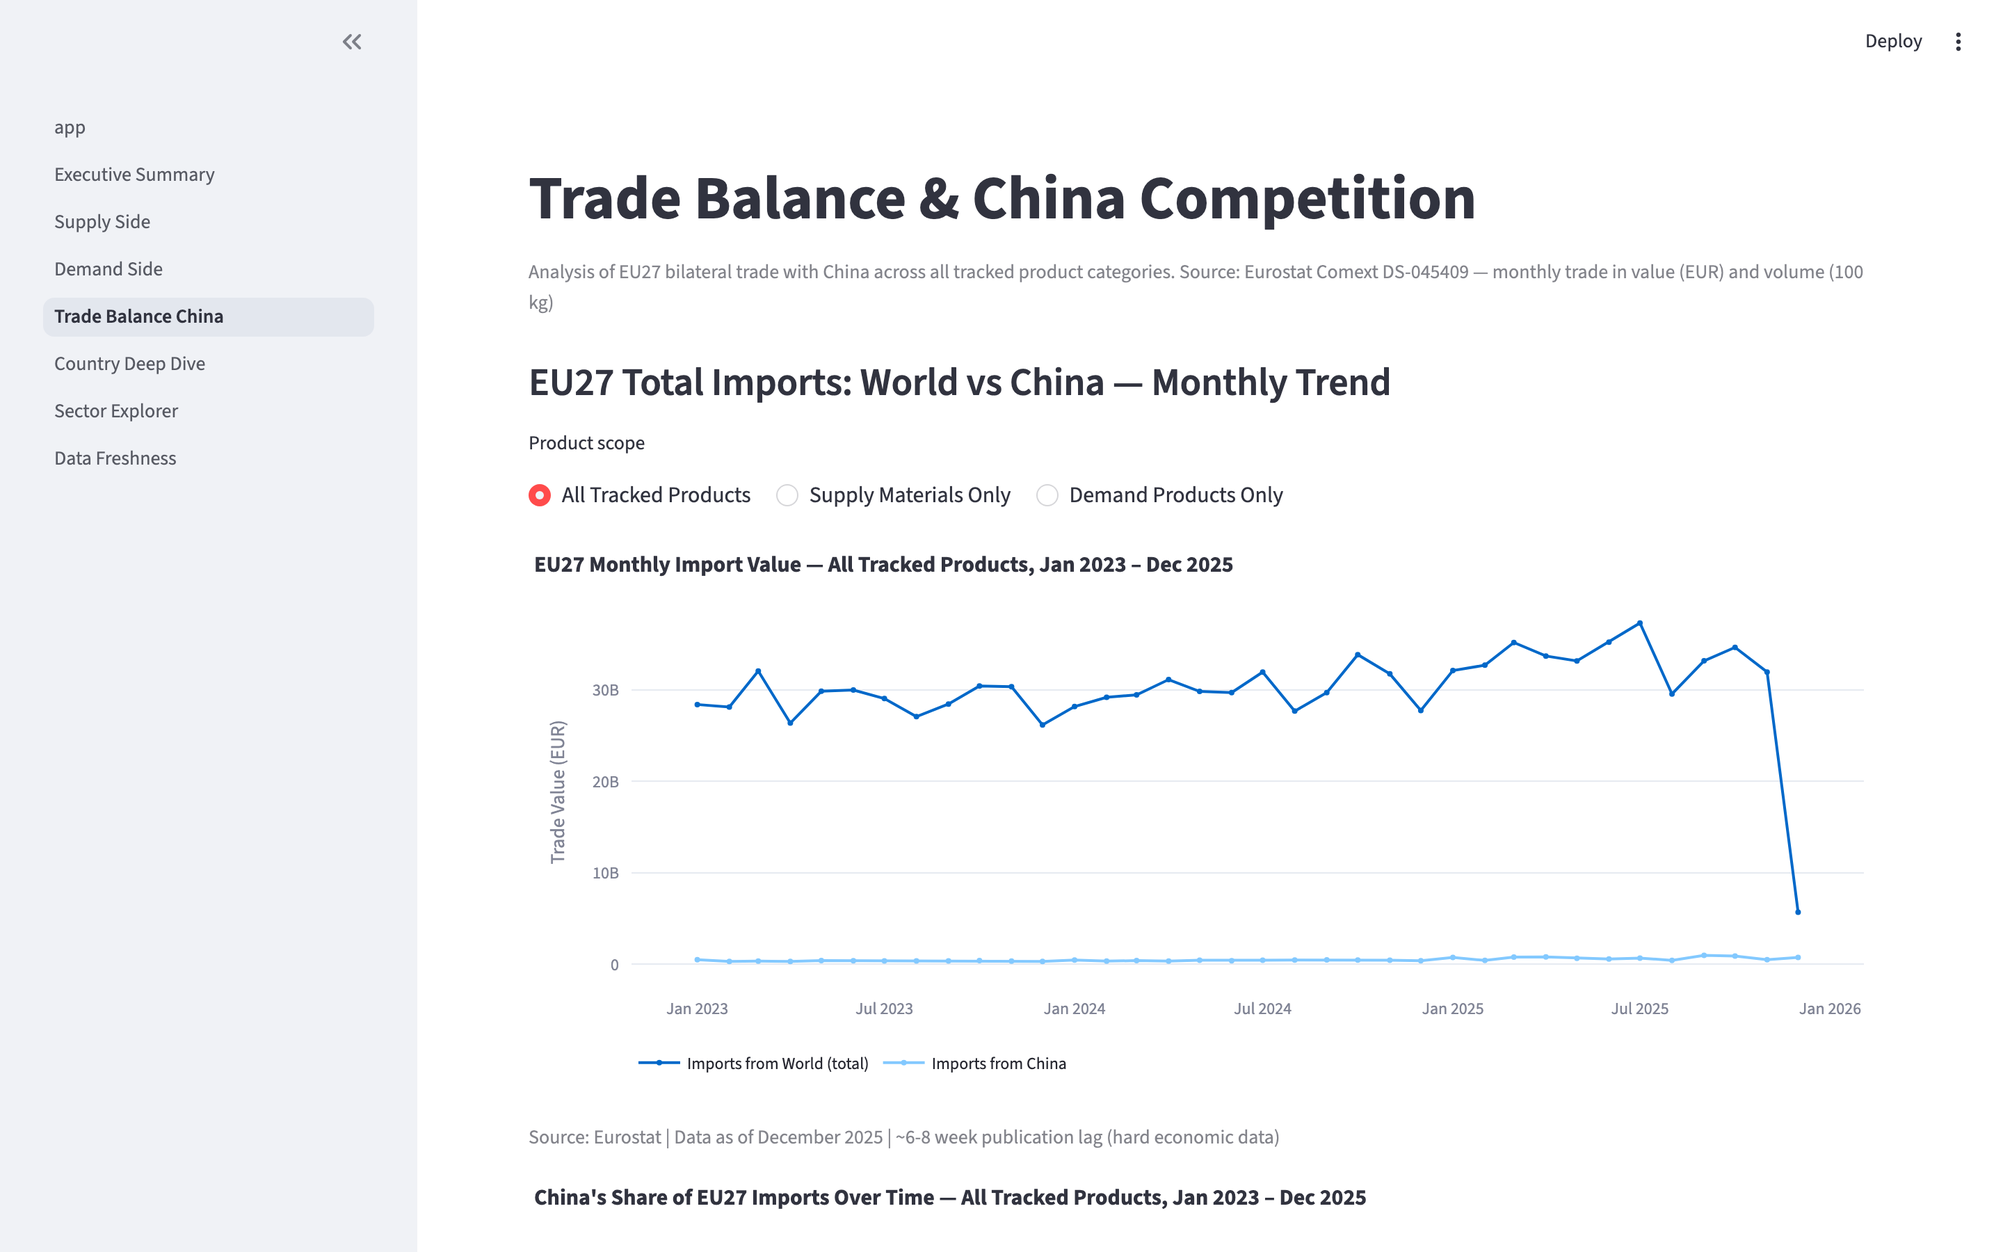
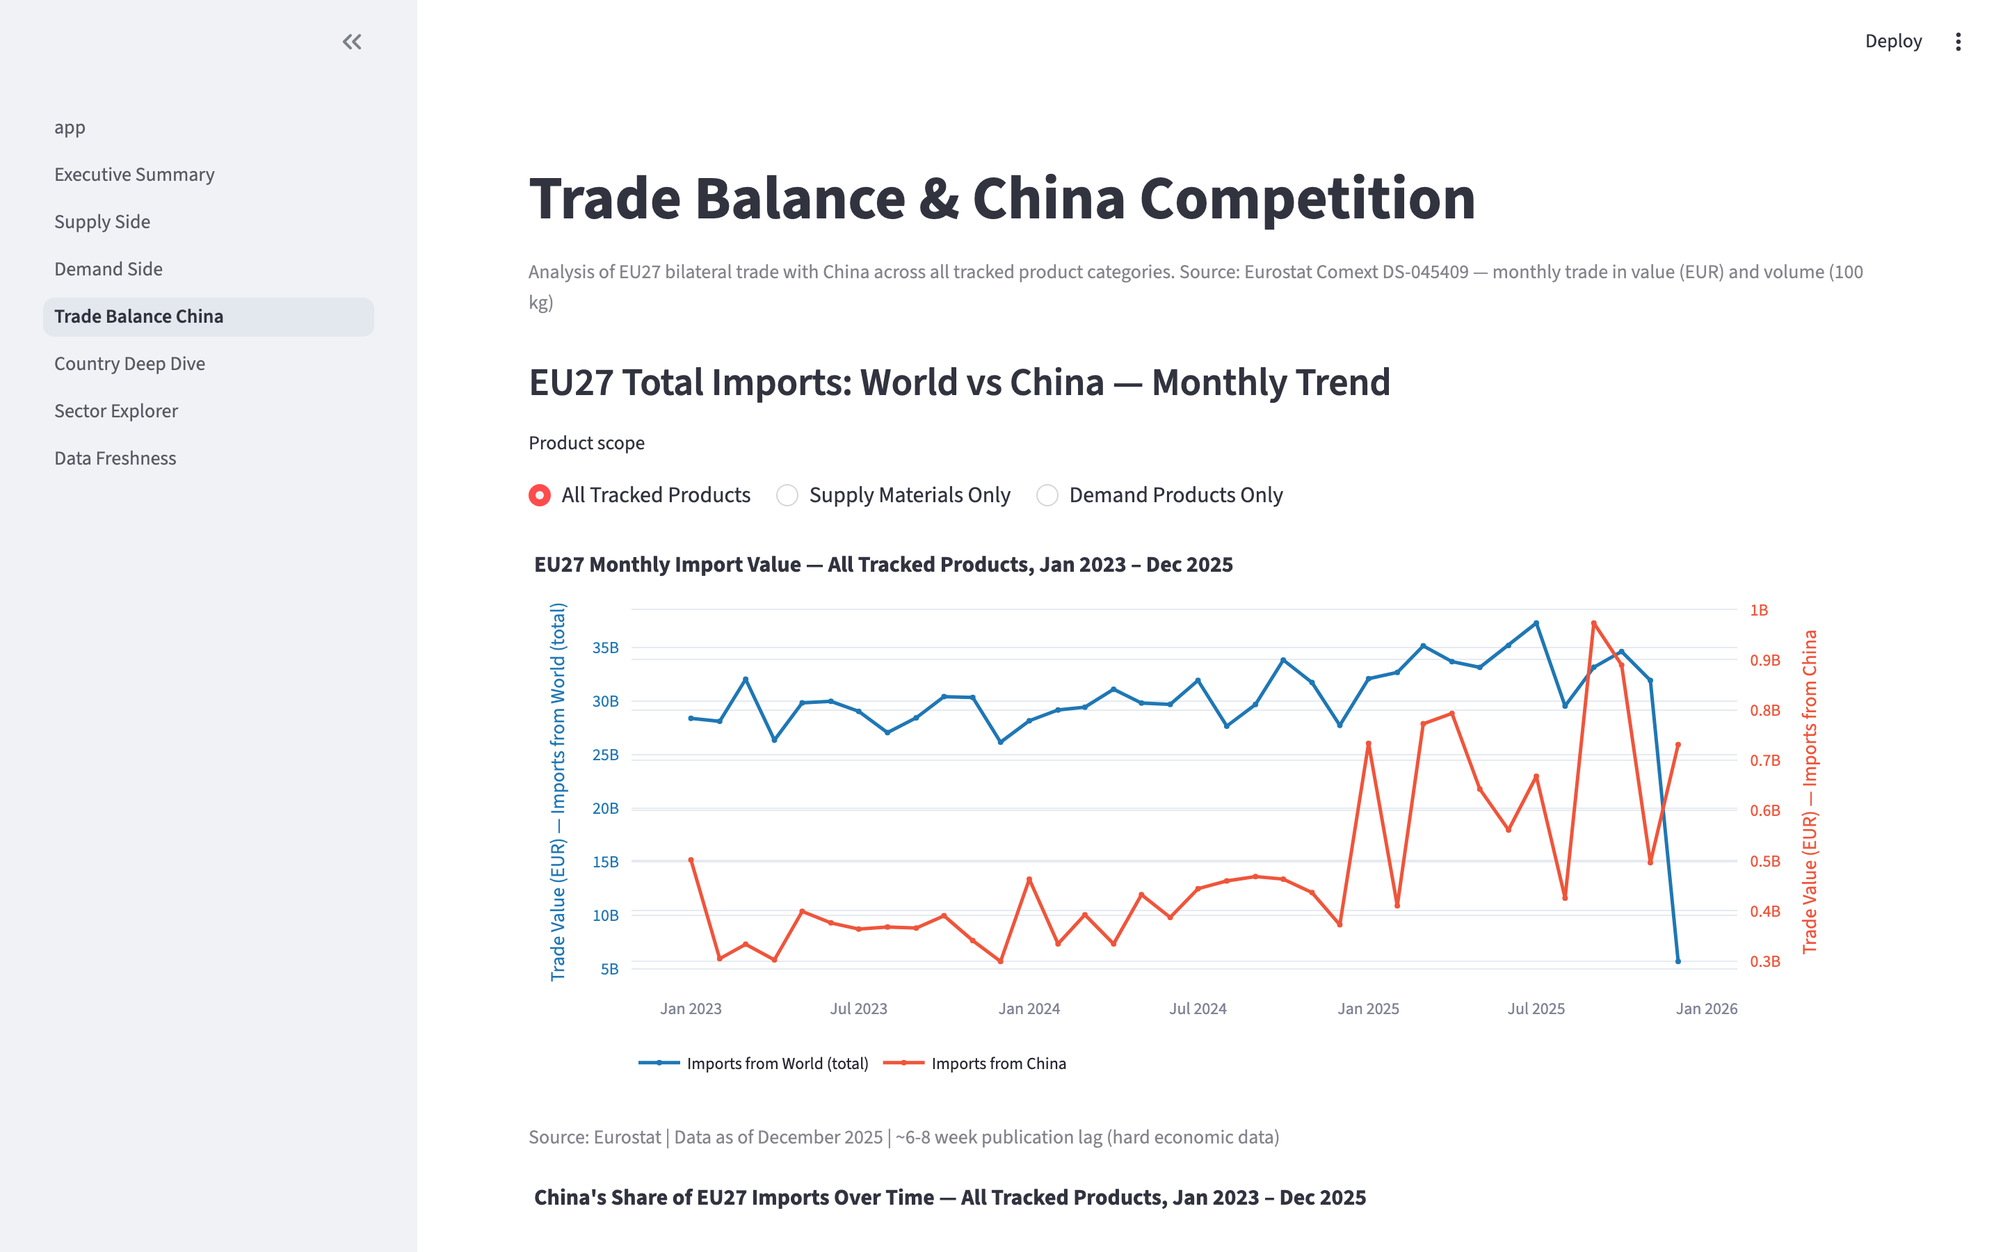
Add dual y-axes for World vs China charts, requirements.txt, QUICKSTART.md
World and China trade lines now use separate y-axes (left/right) so both
are readable regardless of scale difference. Updated charts.py with
dual_axis_chart(), applied to pages 1, 4, and 5. Added full requirements.txt
and concise QUICKSTART.md with run commands.

diff --git a/dashboard/pages/5_Country_Deep_Dive.py b/dashboard/pages/5_Country_Deep_Dive.py
@@ -4,6 +4,7 @@ Country Deep Dive — All indicators for a selected country.
 
 import streamlit as st
 import pandas as pd
+import plotly.graph_objects as go
 
 import sys, os
 sys.path.insert(0, os.path.dirname(os.path.dirname(__file__)))
@@ -14,7 +15,7 @@ from constants import (
     STS_DATASET_DESCRIPTIONS, NACE_DESCRIPTIONS, SUPPLY_NACE, DEMAND_NACE,
     FLOW_LABELS, INDICATOR_LABELS, freshness_footnote,
 )
-from charts import line_chart, trade_balance_chart, bilateral_flow_chart, freshness_badge
+from charts import line_chart, dual_axis_chart, trade_balance_chart, bilateral_flow_chart, freshness_badge
 
 st.title("Country Deep Dive")
 st.caption("Select an EU member state to view all available trade and industrial indicators")
@@ -64,29 +65,74 @@ with tab_supply_trade:
             world_exp = country_data[(country_data["partner"] == "WORLD") & (country_data["flow"] == "2")]
             china_imp = country_data[(country_data["partner"] == "CN") & (country_data["flow"] == "1")]
 
-            plot_data = []
-            if not world_imp.empty:
-                plot_data.append(world_imp[["date", "value"]].assign(country="Imports from World"))
-            if not world_exp.empty:
-                plot_data.append(world_exp[["date", "value"]].assign(country="Exports to World"))
-            if not china_imp.empty:
-                plot_data.append(china_imp[["date", "value"]].assign(country="Imports from China"))
+            # World imports & exports on left axis, China on right axis
+            has_world = not world_imp.empty or not world_exp.empty
+            has_china = not china_imp.empty
 
-            if plot_data:
-                combined = pd.concat(plot_data)
-                date_range = f"{combined['date'].min().strftime('%b %Y')} – {combined['date'].max().strftime('%b %Y')}"
-                st.plotly_chart(
-                    line_chart(combined, combined["country"].unique().tolist(),
-                               f"{desc} (CN {cn_code}) — {country_name}, {date_range}",
-                               y_label=indicator_name),
-                    use_container_width=True,
-                )
+            if has_world or has_china:
+                all_dates = pd.concat([
+                    d[["date"]] for d in [world_imp, world_exp, china_imp] if not d.empty
+                ])
+                date_range = f"{all_dates['date'].min().strftime('%b %Y')} \u2013 {all_dates['date'].max().strftime('%b %Y')}"
+
+                if has_china and has_world:
+                    from plotly.subplots import make_subplots
+                    fig = make_subplots(specs=[[{"secondary_y": True}]])
+                    if not world_imp.empty:
+                        fig.add_trace(go.Scatter(
+                            x=world_imp["date"], y=world_imp["value"],
+                            mode="lines+markers", name="Imports from World",
+                            line=dict(width=2.5, color="#1f77b4"), marker=dict(size=4),
+                            hovertemplate="%{x|%b %Y}: %{y:,.0f}<extra>World Imports</extra>",
+                        ), secondary_y=False)
+                    if not world_exp.empty:
+                        fig.add_trace(go.Scatter(
+                            x=world_exp["date"], y=world_exp["value"],
+                            mode="lines+markers", name="Exports to World",
+                            line=dict(width=2.5, color="#00cc96"), marker=dict(size=4),
+                            hovertemplate="%{x|%b %Y}: %{y:,.0f}<extra>World Exports</extra>",
+                        ), secondary_y=False)
+                    fig.add_trace(go.Scatter(
+                        x=china_imp["date"], y=china_imp["value"],
+                        mode="lines+markers", name="Imports from China",
+                        line=dict(width=2.5, color="#ef553b"), marker=dict(size=4),
+                        hovertemplate="%{x|%b %Y}: %{y:,.0f}<extra>China Imports</extra>",
+                    ), secondary_y=True)
+                    fig.update_layout(
+                        title=f"{desc} (CN {cn_code}) \u2014 {country_name}, {date_range}",
+                        xaxis_title="", hovermode="x unified",
+                        legend=dict(orientation="h", y=-0.15),
+                        margin=dict(l=60, r=60, t=40, b=40), height=400,
+                    )
+                    fig.update_yaxes(title_text=f"{indicator_name} \u2014 World",
+                                      title_font=dict(color="#1f77b4"),
+                                      tickfont=dict(color="#1f77b4"), secondary_y=False)
+                    fig.update_yaxes(title_text=f"{indicator_name} \u2014 China",
+                                      title_font=dict(color="#ef553b"),
+                                      tickfont=dict(color="#ef553b"), secondary_y=True)
+                    st.plotly_chart(fig, use_container_width=True)
+                else:
+                    plot_data = []
+                    if not world_imp.empty:
+                        plot_data.append(world_imp[["date", "value"]].assign(country="Imports from World"))
+                    if not world_exp.empty:
+                        plot_data.append(world_exp[["date", "value"]].assign(country="Exports to World"))
+                    if not china_imp.empty:
+                        plot_data.append(china_imp[["date", "value"]].assign(country="Imports from China"))
+                    combined = pd.concat(plot_data)
+                    st.plotly_chart(
+                        line_chart(combined, combined["country"].unique().tolist(),
+                                   f"{desc} (CN {cn_code}) \u2014 {country_name}, {date_range}",
+                                   y_label=indicator_name),
+                        use_container_width=True,
+                    )
+
                 fr = data["freshness"].get(f"comext_{cn_code}", {})
                 st.caption(freshness_footnote(fr.get("tier", 2), fr.get("latest_date")))
 
 # ---- DEMAND TRADE ----
 with tab_demand_trade:
-    st.subheader(f"End-Market Product Trade — {country_name}")
+    st.subheader(f"End-Market Product Trade \u2014 {country_name}")
     st.caption("International trade in finished goods (food, beverages, HPC, pharma). Source: Eurostat Comext DS-045409")
 
     indicator = st.radio("Measure", ["VALUE_IN_EUROS", "QUANTITY_IN_100KG"],
@@ -107,23 +153,67 @@ with tab_demand_trade:
             world_exp = country_data[(country_data["partner"] == "WORLD") & (country_data["flow"] == "2")]
             china_imp = country_data[(country_data["partner"] == "CN") & (country_data["flow"] == "1")]
 
-            plot_data = []
-            if not world_imp.empty:
-                plot_data.append(world_imp[["date", "value"]].assign(country="Imports from World"))
-            if not world_exp.empty:
-                plot_data.append(world_exp[["date", "value"]].assign(country="Exports to World"))
-            if not china_imp.empty:
-                plot_data.append(china_imp[["date", "value"]].assign(country="Imports from China"))
+            has_world = not world_imp.empty or not world_exp.empty
+            has_china = not china_imp.empty
 
-            if plot_data:
-                combined = pd.concat(plot_data)
-                date_range = f"{combined['date'].min().strftime('%b %Y')} – {combined['date'].max().strftime('%b %Y')}"
-                st.plotly_chart(
-                    line_chart(combined, combined["country"].unique().tolist(),
-                               f"{desc} (CN {cn_code}) — {country_name}, {date_range}",
-                               y_label=indicator_name),
-                    use_container_width=True,
-                )
+            if has_world or has_china:
+                all_dates = pd.concat([
+                    d[["date"]] for d in [world_imp, world_exp, china_imp] if not d.empty
+                ])
+                date_range = f"{all_dates['date'].min().strftime('%b %Y')} \u2013 {all_dates['date'].max().strftime('%b %Y')}"
+
+                if has_china and has_world:
+                    from plotly.subplots import make_subplots
+                    fig = make_subplots(specs=[[{"secondary_y": True}]])
+                    if not world_imp.empty:
+                        fig.add_trace(go.Scatter(
+                            x=world_imp["date"], y=world_imp["value"],
+                            mode="lines+markers", name="Imports from World",
+                            line=dict(width=2.5, color="#1f77b4"), marker=dict(size=4),
+                            hovertemplate="%{x|%b %Y}: %{y:,.0f}<extra>World Imports</extra>",
+                        ), secondary_y=False)
+                    if not world_exp.empty:
+                        fig.add_trace(go.Scatter(
+                            x=world_exp["date"], y=world_exp["value"],
+                            mode="lines+markers", name="Exports to World",
+                            line=dict(width=2.5, color="#00cc96"), marker=dict(size=4),
+                            hovertemplate="%{x|%b %Y}: %{y:,.0f}<extra>World Exports</extra>",
+                        ), secondary_y=False)
+                    fig.add_trace(go.Scatter(
+                        x=china_imp["date"], y=china_imp["value"],
+                        mode="lines+markers", name="Imports from China",
+                        line=dict(width=2.5, color="#ef553b"), marker=dict(size=4),
+                        hovertemplate="%{x|%b %Y}: %{y:,.0f}<extra>China Imports</extra>",
+                    ), secondary_y=True)
+                    fig.update_layout(
+                        title=f"{desc} (CN {cn_code}) \u2014 {country_name}, {date_range}",
+                        xaxis_title="", hovermode="x unified",
+                        legend=dict(orientation="h", y=-0.15),
+                        margin=dict(l=60, r=60, t=40, b=40), height=400,
+                    )
+                    fig.update_yaxes(title_text=f"{indicator_name} \u2014 World",
+                                      title_font=dict(color="#1f77b4"),
+                                      tickfont=dict(color="#1f77b4"), secondary_y=False)
+                    fig.update_yaxes(title_text=f"{indicator_name} \u2014 China",
+                                      title_font=dict(color="#ef553b"),
+                                      tickfont=dict(color="#ef553b"), secondary_y=True)
+                    st.plotly_chart(fig, use_container_width=True)
+                else:
+                    plot_data = []
+                    if not world_imp.empty:
+                        plot_data.append(world_imp[["date", "value"]].assign(country="Imports from World"))
+                    if not world_exp.empty:
+                        plot_data.append(world_exp[["date", "value"]].assign(country="Exports to World"))
+                    if not china_imp.empty:
+                        plot_data.append(china_imp[["date", "value"]].assign(country="Imports from China"))
+                    combined = pd.concat(plot_data)
+                    st.plotly_chart(
+                        line_chart(combined, combined["country"].unique().tolist(),
+                                   f"{desc} (CN {cn_code}) \u2014 {country_name}, {date_range}",
+                                   y_label=indicator_name),
+                        use_container_width=True,
+                    )
+
                 fr = data["freshness"].get(f"comext_{cn_code}", {})
                 st.caption(freshness_footnote(fr.get("tier", 2), fr.get("latest_date")))
 

diff --git a/dashboard/pages/1_Executive_Summary.py b/dashboard/pages/1_Executive_Summary.py
@@ -292,27 +292,45 @@ def _show_trade_chart(cn_code: str, label: str, flow: str = "1"):
 
     date_range = f"{world['date'].min().strftime('%b %Y')} \u2013 {world['date'].max().strftime('%b %Y')}"
 
-    fig = go.Figure()
-    fig.add_trace(go.Scatter(
-        x=world["date"], y=world["value"],
-        mode="lines+markers", name=f"{flow_name} from World",
-        line=dict(width=2.5, color="#1f77b4"), marker=dict(size=4),
-        hovertemplate="%{x|%b %Y}: %{y:,.0f} EUR<extra>World</extra>",
-    ))
     if not china.empty:
+        from plotly.subplots import make_subplots
+        fig = make_subplots(specs=[[{"secondary_y": True}]])
+        fig.add_trace(go.Scatter(
+            x=world["date"], y=world["value"],
+            mode="lines+markers", name=f"{flow_name} from World",
+            line=dict(width=2.5, color="#1f77b4"), marker=dict(size=4),
+            hovertemplate="%{x|%b %Y}: %{y:,.0f} EUR<extra>World</extra>",
+        ), secondary_y=False)
         fig.add_trace(go.Scatter(
             x=china["date"], y=china["value"],
             mode="lines+markers", name=f"{flow_name} from China",
             line=dict(width=2.5, color="#ef553b"), marker=dict(size=4),
             hovertemplate="%{x|%b %Y}: %{y:,.0f} EUR<extra>China</extra>",
+        ), secondary_y=True)
+        fig.update_layout(
+            title=f"{desc} (CN {cn_code}) \u2014 {scope_name} {flow_name}, {date_range}",
+            xaxis_title="", hovermode="x unified",
+            legend=dict(orientation="h", y=-0.15),
+            margin=dict(l=60, r=60, t=50, b=40), height=500,
+        )
+        fig.update_yaxes(title_text="Trade Value (EUR) \u2014 World", secondary_y=False,
+                          title_font=dict(color="#1f77b4"), tickfont=dict(color="#1f77b4"))
+        fig.update_yaxes(title_text="Trade Value (EUR) \u2014 China", secondary_y=True,
+                          title_font=dict(color="#ef553b"), tickfont=dict(color="#ef553b"))
+    else:
+        fig = go.Figure()
+        fig.add_trace(go.Scatter(
+            x=world["date"], y=world["value"],
+            mode="lines+markers", name=f"{flow_name} from World",
+            line=dict(width=2.5, color="#1f77b4"), marker=dict(size=4),
+            hovertemplate="%{x|%b %Y}: %{y:,.0f} EUR<extra>World</extra>",
         ))
-
-    fig.update_layout(
-        title=f"{desc} (CN {cn_code}) \u2014 {scope_name} {flow_name}, {date_range}",
-        xaxis_title="", yaxis_title="Trade Value (EUR)",
-        hovermode="x unified", legend=dict(orientation="h", y=-0.15),
-        margin=dict(l=60, r=20, t=50, b=40), height=500,
-    )
+        fig.update_layout(
+            title=f"{desc} (CN {cn_code}) \u2014 {scope_name} {flow_name}, {date_range}",
+            xaxis_title="", yaxis_title="Trade Value (EUR)",
+            hovermode="x unified", legend=dict(orientation="h", y=-0.15),
+            margin=dict(l=60, r=20, t=50, b=40), height=500,
+        )
     st.plotly_chart(fig, use_container_width=True)
 
     # Stats

diff --git a/dashboard/charts.py b/dashboard/charts.py
@@ -95,6 +95,43 @@ def heatmap_yoy(df: pd.DataFrame, countries: list[str], title: str) -> go.Figure
     return fig
 
 
+def dual_axis_chart(world_df: pd.DataFrame, china_df: pd.DataFrame,
+                     title: str, y_label: str = "Trade Value (EUR)",
+                     world_label: str = "World", china_label: str = "China") -> go.Figure:
+    """Line chart with dual y-axes: left axis for World, right axis for China.
+    Both DataFrames must have 'date' and 'value' columns."""
+    from plotly.subplots import make_subplots
+
+    fig = make_subplots(specs=[[{"secondary_y": True}]])
+
+    if not world_df.empty:
+        fig.add_trace(go.Scatter(
+            x=world_df["date"], y=world_df["value"],
+            mode="lines+markers", name=world_label,
+            line=dict(width=2.5, color="#1f77b4"), marker=dict(size=4),
+            hovertemplate="%{x|%b %Y}: %{y:,.0f}<extra>" + world_label + "</extra>",
+        ), secondary_y=False)
+
+    if not china_df.empty:
+        fig.add_trace(go.Scatter(
+            x=china_df["date"], y=china_df["value"],
+            mode="lines+markers", name=china_label,
+            line=dict(width=2.5, color="#ef553b"), marker=dict(size=4),
+            hovertemplate="%{x|%b %Y}: %{y:,.0f}<extra>" + china_label + "</extra>",
+        ), secondary_y=True)
+
+    fig.update_layout(
+        title=title, xaxis_title="",
+        hovermode="x unified", legend=dict(orientation="h", y=-0.15),
+        margin=dict(l=60, r=60, t=40, b=40), height=400,
+    )
+    fig.update_yaxes(title_text=f"{y_label} — {world_label}", secondary_y=False,
+                      title_font=dict(color="#1f77b4"), tickfont=dict(color="#1f77b4"))
+    fig.update_yaxes(title_text=f"{y_label} — {china_label}", secondary_y=True,
+                      title_font=dict(color="#ef553b"), tickfont=dict(color="#ef553b"))
+    return fig
+
+
 def sparkline(values: list, color: str = "#1f77b4") -> go.Figure:
     """Small inline sparkline for KPI cards."""
     fig = go.Figure(go.Scatter(

diff --git a/dashboard/pages/4_Trade_Balance_China.py b/dashboard/pages/4_Trade_Balance_China.py
@@ -14,7 +14,7 @@ from constants import (
     EU27_CODES, AGGREGATE_CODES, COUNTRY_NAMES, SECTOR_GROUPS,
     freshness_footnote,
 )
-from charts import line_chart, freshness_badge
+from charts import line_chart, dual_axis_chart, freshness_badge
 
 st.title("Trade Balance & China Competition")
 st.caption(
@@ -77,14 +77,14 @@ else:
 world_totals, china_totals = _compute_eu_china_totals(data["comext"], cn_subset)
 
 if not world_totals.empty and not china_totals.empty:
-    combined = world_totals.assign(country="Imports from World (total)")
-    china_plot = china_totals.assign(country="Imports from China")
-    both = pd.concat([combined, china_plot])
+    both = pd.concat([world_totals, china_totals])
     date_range = f"{both['date'].min().strftime('%b %Y')} – {both['date'].max().strftime('%b %Y')}"
     st.plotly_chart(
-        line_chart(both, ["Imports from World (total)", "Imports from China"],
-                   f"EU27 Monthly Import Value — {scope}, {date_range}",
-                   y_label="Trade Value (EUR)"),
+        dual_axis_chart(world_totals, china_totals,
+                        f"EU27 Monthly Import Value — {scope}, {date_range}",
+                        y_label="Trade Value (EUR)",
+                        world_label="Imports from World (total)",
+                        china_label="Imports from China"),
         use_container_width=True,
     )
     st.caption(_trade_footnote)

diff --git a/QUICKSTART.md b/QUICKSTART.md
@@ -1,0 +1,25 @@
+# Quickstart
+
+## Setup
+
+```bash
+python3 -m venv .venv
+source .venv/bin/activate
+pip install -r requirements.txt
+```
+
+## Run Data Extraction
+
+```bash
+source .venv/bin/activate
+python test_eurostat_extraction.py
+```
+
+## Run Dashboard
+
+```bash
+source .venv/bin/activate
+streamlit run dashboard/app.py
+```
+
+Opens at http://localhost:8501
